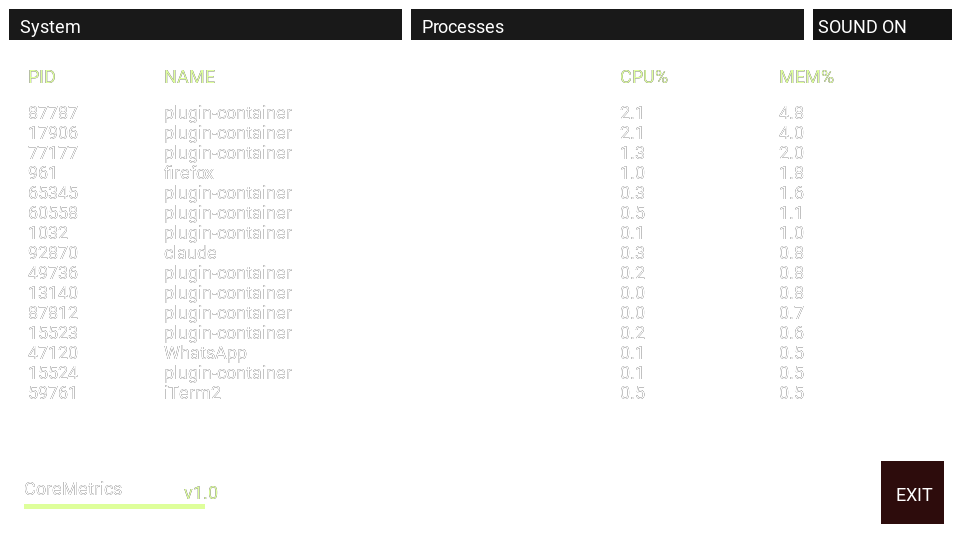
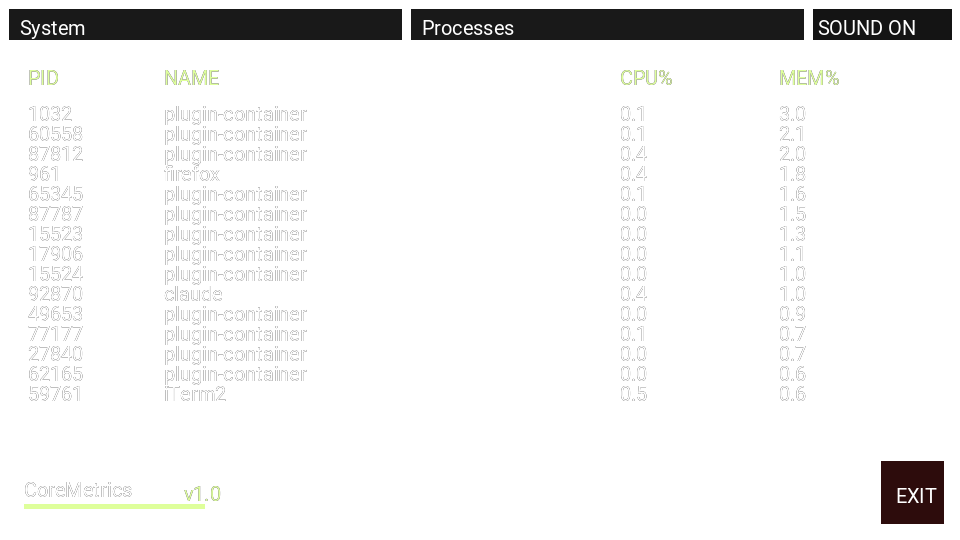
docs: regen hero screenshots and refresh README claims for v0.1.0
The hero screenshots in assets/ predated the eight overnight-wave
PRs, so they still showed the audit baseline (0.0% CPU per row, no
sparklines, 18pt thin labels). Regenerated both from the merged
binary so the README's first impression matches what users get when
they install:

  - System tab: real CPU% / RAM% / GPU% with the new threshold colors
    (yellow at 60%, red at 80%), three rolling sparklines in the
    lower half courtesy of --sparklines, sharper 20pt Roboto with
    LIGHT hinting.

  - Processes tab: real per-process CPU% (delta math), still sorted
    by MEM% descending by default, sharper labels.

Both shots were rendered through the same --screenshot path users
run; no external editing.

Also refreshes the README to match the post-merge state:

  - The bullet count changes from "175 unit tests across 13 suites"
    to "214 unit tests across 16 suites" and now mentions the
    non-blocking ASan / UBSan CI leg.
  - The hero caption now mentions sparklines and the .png writer.
  - The optional flags row in Quickstart now lists --sparklines and
    --duration alongside the .png screenshot example.

diff --git a/README.md b/README.md
@@ -17,9 +17,9 @@
 | System tab | Processes tab |
 |:---:|:---:|
 | ![System tab](assets/screenshot-system.png) | ![Processes tab](assets/screenshot-processes.png) |
-| CPU / RAM / GPU bars, load-colored (RAM red past 80%) | Sortable PID / NAME / CPU% / MEM% table |
+| CPU / RAM / GPU bars, load-colored (RAM red past 80%), plus rolling sparklines under `--sparklines` | Sortable PID / NAME / CPU% / MEM% table |
 
-> Both frames are rendered by the app itself, headlessly: `coremetrics --screenshot out.bmp [system|processes]` runs one render pass to an offscreen surface and saves it, no window required.
+> Both frames are rendered by the app itself, headlessly: `coremetrics --screenshot out.png [system|processes]` runs one render pass to an offscreen surface and saves it, no window required. The extension picks the writer (`.png` via `IMG_SavePNG`, anything else via `SDL_SaveBMP`).
 
 New here? [**DOCS.md**](DOCS.md) maps the whole repo; [**API.md**](API.md) is the full public library reference (every class and method).
 
@@ -34,7 +34,7 @@ CoreMetrics is two things in one repo: a small **GUI toolkit written directly on
 - **Event-driven, no scene rebuilds.** Clicks trickle top-down through the layout tree; tab switches drain as paired show/hide events in a single pass; metrics mutate widgets in place every 500 ms.
 - **Modern C++ on purpose.** A `Cloneable<Derived>` CRTP mixin gives every widget a covariant `clone()` for free; ownership flows through `unique_ptr`; the layout tree is a generic `Tree<T>`.
 - **Parallel fills.** Wide `drawBox` / `drawTriangle` operations partition pixel rows across a `ThreadPool` and join on `std::future`s per frame (a teammate's work; see the contribution table).
-- **175 unit tests across 13 suites** and a Linux + macOS GitHub Actions matrix.
+- **214 unit tests across 16 suites** and a Linux + macOS GitHub Actions matrix, plus a non-blocking AddressSanitizer + UndefinedBehaviorSanitizer leg (`make asan`, `make ubsan`).
 
 > This is a 4-person team project, and I was the lead and primary author: **~72% of the source by line** (git-blame verified, 5,034 of 7,001). See [Team and my contribution](#team-and-my-contribution) for the per-file breakdown.
 
@@ -80,7 +80,10 @@ make                 # builds bin/coremetrics and launches it
 ./stress.sh          # 30s of CPU + RAM load; bars cross yellow/red thresholds
 
 # (optional) render a frame headlessly, no window needed
-./bin/coremetrics --screenshot shot.bmp
+./bin/coremetrics --screenshot shot.png             # System tab
+./bin/coremetrics --screenshot shot.png processes   # Processes tab
+./bin/coremetrics --sparklines                      # adds rolling CPU/RAM/GPU charts
+./bin/coremetrics --duration 5                      # auto-quit after 5s (for CI smoke tests)
 ```
 
 <details>